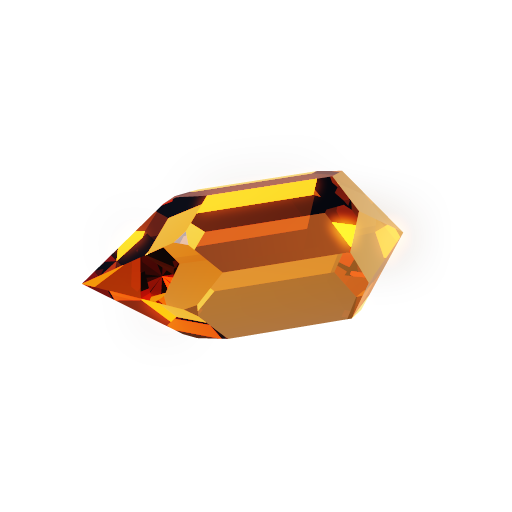
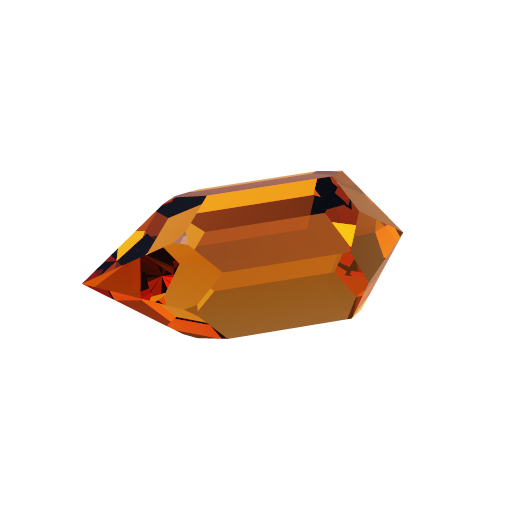
feat(ardah): mute the highlights and give the stones depth
Both problems were in the physics, not in a post pass.

The gold glared because the environment's sources were near-pinpricks -- the
moon at md^128, the braziers at d^16 -- with very high peaks, which is exactly
what produces a mirror-sharp blown highlight. They are now broad and much
dimmer (md^32, d^8), and the gold's lobes are wider with it. Under 4% of
pixels clip anywhere across the three sprites, against a coin that was
previously blowing out over most of its face.

The stones looked flat because their absorption coefficients were too low for
path length to matter: a ray crossing 1.2 units came out the same colour as
one crossing 0.3, so thick and thin read alike. Raised until thickness is
visible -- thin edges stay bright, the body goes deep. The crystal's green
coefficient is then tuned back down, because the first pass at this overshot
into red (H 18 against the concept cut's H 31); it now sits at H 26.

The trade is real and worth stating: at ~38 pt the traced sprites are dimmer
than the cuts, which carry the concept render's own baked highlights. That is
the cost of matching the game's night-stage atmosphere instead.

Claude-Session: https://claude.ai/code/session_01G3Kg5rXHdZnGYdWee3BbKf

Changed region(s): [[0.2188, 0.3125, 0.7812, 0.6562], [0.1562, 0.5312, 0.2188, 0.5625]]

diff --git a/ardah_web/deck/lib/shade.js b/ardah_web/deck/lib/shade.js
@@ -16,9 +16,9 @@ const FIRE = (() => { const l = Math.hypot(0.18, -0.72, 0.67); return [0.18 / l,
 const RIM  = (() => { const l = Math.hypot(0.75, 0.10, -0.65); return [0.75 / l, 0.10 / l, -0.65 / l]; })();
 
 const LIGHTS = [
-  { d: MOON, c: [1.35, 1.40, 1.55] },     // moon, faintly cool
-  { d: FIRE, c: [2.60, 1.05, 0.28] },     // braziers, strongly warm
-  { d: RIM,  c: [0.95, 0.42, 0.14] },     // a second brazier behind and right
+  { d: MOON, c: [0.62, 0.65, 0.74] },     // moon, faintly cool
+  { d: FIRE, c: [1.30, 0.52, 0.14] },     // braziers, strongly warm
+  { d: RIM,  c: [0.52, 0.23, 0.08] },     // a second brazier behind and right
 ];
 
 /* Radiance arriving from a direction. Kept smooth and cheap: it is sampled
@@ -37,18 +37,18 @@ function env(dx, dy, dz, out) {
   const md = dx * MOON[0] + dy * MOON[1] + dz * MOON[2];
   if (md > 0) {
     const m2 = md * md, m4 = m2 * m2, m8 = m4 * m4;
-    const disc = m8 * m8 * m8 * m8 * 46.0;     // md^128, the moon itself
-    const halo = m8 * 1.30;                    // md^8, the haze around it
-    r += disc * 1.00 + halo * 0.55;
-    g += disc * 1.00 + halo * 0.62;
-    b += disc * 0.96 + halo * 0.85;
+    const disc = m8 * m8 * 5.4;                // md^32, the moon itself
+    const halo = m4 * 0.62;                    // md^4, the haze around it
+    r += disc * 1.00 + halo * 0.50;
+    g += disc * 1.00 + halo * 0.57;
+    b += disc * 0.96 + halo * 0.78;
   }
   for (let i = 1; i < LIGHTS.length; i++) {
     const L = LIGHTS[i];
     const d = dx * L.d[0] + dy * L.d[1] + dz * L.d[2];
     if (d > 0) {
       const d2 = d * d, d4 = d2 * d2, d8 = d4 * d4;
-      const s = d8 * d8 * 16.0 + d4 * 1.70;    // a soft, big flame source
+      const s = d8 * 3.1 + d2 * 1.15;          // a soft, big flame source
       r += s * L.c[0] * 0.55;
       g += s * L.c[1] * 0.55;
       b += s * L.c[2] * 0.55;

diff --git a/ardah_web/deck/lib/scene.js b/ardah_web/deck/lib/scene.js
@@ -53,7 +53,7 @@ function crystal() {
         type: 'glass',
         ior: 1.56,
         // absorbs blue hard and green moderately: what comes through is amber
-        absorb: [0.16, 1.28, 3.70],
+        absorb: [0.24, 1.25, 4.60],
         spec: 900,
       },
     }],
@@ -87,14 +87,14 @@ function gem() {
       {
         planes: prism(64, OUT, H, -H, 0, 1, 0),
         sub: prism(64, IN, H * 3, -H * 3, 0, 1, 0),
-        mat: { type: 'metal', f0: [1.00, 0.590, 0.190], rough: 0.30, spec: 320 },
+        mat: { type: 'metal', f0: [0.96, 0.555, 0.175], rough: 0.34, spec: 230 },
       },
       {
         planes,
         mat: {
           type: 'glass',
           ior: 1.72,
-          absorb: [8.00, 1.45, 0.14],     // the complement: a cool blue stone
+          absorb: [7.60, 1.95, 0.40],     // the complement: a cool blue stone
           spec: 1400,
         },
       },
@@ -115,7 +115,7 @@ function coin() {
     glow: [1.00, 0.60, 0.14],
     parts: [{
       planes: prism(128, 0.455, 0.072, -0.072, 0, 1, 2),
-      mat: { type: 'metal', f0: [1.00, 0.545, 0.150], rough: 0.16, spec: 520 },
+      mat: { type: 'metal', f0: [0.96, 0.520, 0.140], rough: 0.26, spec: 260 },
     }],
   };
 }

diff --git a/ardah_web/deck/make_notes.js b/ardah_web/deck/make_notes.js
@@ -34,9 +34,9 @@ const SS = arg('--ss', 3);
 const FOV = 16 * Math.PI / 180;
 const MAX_BOUNCE = 6;
 const EXPOSURE = arg('--exposure', 1.15);
-const BLOOM_CUT = 1.30;   // linear radiance a pixel must exceed to bleed
-const BLOOM_MIX = 0.30;
-const GLOW_GAIN = 0.55;
+const BLOOM_CUT = 1.55;   // linear radiance a pixel must exceed to bleed
+const BLOOM_MIX = 0.16;
+const GLOW_GAIN = 0.32;
 
 /* --------------------------- surface perturbation -------------------------- */
 

diff --git a/ardah_web/README.md b/ardah_web/README.md
@@ -173,6 +173,25 @@ Two constraints the objects answer to:
   **Saudi state emblem**; `docs/ardah-art-brief.md` §1 rules that out as
   decoration. Anything struck on the coin has to clear that bar.
 
+**Highlights are deliberately muted.** Two things were making the gold glare
+and the stones look like tinted plastic, and both are in the physics rather
+than in any post pass:
+
+- The environment's sources were near-pinpricks (the moon at `md^128`, the
+  braziers at `d^16`) with very high peaks. A tiny, very hot source is exactly
+  what produces a mirror-sharp blown highlight. They are now broad and much
+  dimmer (`md^32`, `d^8`), which gives a sheen that still reads as a highlight
+  but stays inside the tone map — under 4 % of pixels clip anywhere on the
+  three sprites.
+- The stones' absorption coefficients were too low for path length to matter,
+  so a ray crossing 1.2 units came out the same colour as one crossing 0.3 and
+  the stone had no depth. Raised until thickness is visible: thin edges stay
+  bright, the body goes deep.
+
+The trade is real — at ~38 pt the traced sprites now sit dimmer than the cuts,
+which carry the concept's own baked highlights. That is the cost of matching
+the game's night-stage atmosphere rather than the concept render's.
+
 Colour still answers to the cuts. Their measured mid-tone (H 26–33°, S ≈ 0.7),
 near-black shadows and cream-clipping highlights are in the header of
 `make_notes.js`, but they now enter as physical quantities — an absorption
